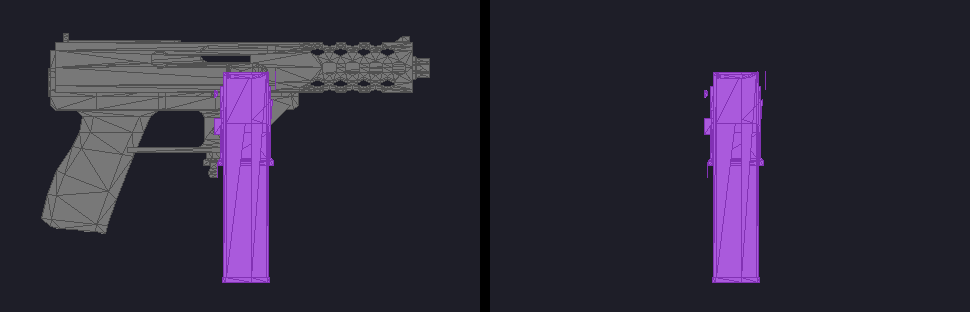
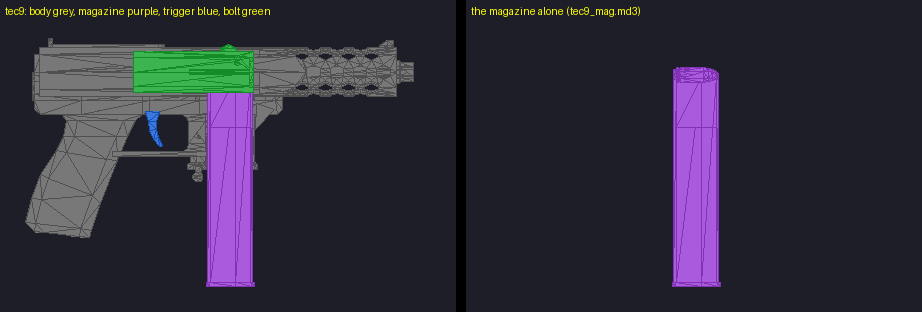
[plan] cards/meatgrinder/tec9: reloadable, detachable magazine; card from the parted mesh in the new format; the carve lesson recorded
Claude-Session: https://claude.ai/code/session_01Me4ZUptKzBoUU637hvKN4p

diff --git a/cards/meatgrinder/NOTES.md b/cards/meatgrinder/NOTES.md
@@ -9,7 +9,7 @@ where it goes, the hands do the reload. "The mesh says it doesn't reload" was a 
 |---|---|---|---|---|
 | SSG.md3 | a bullpup PUMP shotgun (KSG style), not a break-action | pump = forend+front grip (surf 5) and barrel sleeve (surf 1) slide back 10.8 cm together, frames 6..11 | none modelled | surfaces named by role: 0 trigger, 6 rear grip, 10 stock |
 | Shotgun.md3 | a MAGAZINE shotgun | box mag (surf 6, artist-named "Mag", never animated: 8.5 x 12.4 x 13.2 under the receiver); bolt (surf 2) 10.8 cm and charging handle (surf 1) 7.3 cm on fire | none modelled | artist surfaces are named: Sights, Trigger, Receiver, Frame, Mag |
-| tec9.md3 | open-bolt SMG | ALREADY DONE in RS_VR_Weapons (tec9_wm.md3 + wm_tec9_mag.md3, WMCARD.07_smg): mag carved, full card. Raw mesh adds: bolt 7.1 cm on fire frames 3..4 | yes, on the RS_VR_Weapons card (-y side) | the re-carve here was wasted; check RS_VR_Weapons first |
+| tec9.md3 | open-bolt SMG, RELOADABLE: detachable 32-round box magazine | magazine is its own surface (792 tris, proven to drop in game); bolt 7.1 cm on fire frames 3..4; the mod's own animation never reloads, the runtime does | -y side | parted mesh used; my own box carve was wrong twice (collar+base, then with receiver wall) |
 | Chaingun.md3 | six-barrel rotary | the six barrels (surf 5..10) ARE separate and spin 45 deg per fire frame | none modelled | side grip surf 14 for the support hand |
 | RPG.md3 | six-tube rocket pod on the chaingun body | tubes (surf 9,13..17) are still; whole gun recoils 45 deg on fire (removed in _stable) | n/a | |
 | Saw.md3 | chainsaw | blade (surf 3) is its own surface, static; surf 5 is a spark effect on fire | n/a | the chain can be made to run: the blade is separable |

diff --git a/cards/README.md b/cards/README.md
@@ -26,9 +26,10 @@ are inside the selector, and a magazine's side triangles run from the base plate
 so the slab must reach the receiver line, or you get the collar and the base plate and no magazine
 (TEC9, first try). Render the carved piece ALONE and look at it before trusting the triangle count.
 
-## FIRST, check what is already done (2026-10-31, the TEC9 lesson)
-The well (VR_WeaponSetRebuild) holds raw downloads. The finished, parted, carded copies live as `_wm`
-meshes in RS_VR_Weapons (`models/<set>/...`, cards in `WMCARD.*`) and on ModelSwapper's shelf. Before
-measuring or carving anything from the well, look there. The TEC9 was re-carved here for an hour while
-`tec9_wm.md3` + `wm_tec9_mag.md3` + a full card sat in RS_VR_Weapons. A `_wm` copy is usually frame 0
-only: the raw mesh's motion (bolt travel, pump stroke) is still worth measuring and adding to its card.
+## Carving: the cut must be the part's own triangles (2026-10-31, the TEC9)
+A spatial box or cylinder selects triangles by where their vertices sit, and a magazine welded into a
+body shares vertices with the receiver around its well. Two box cuts of the TEC9 were wrong: the first
+took the collar and base plate only, the second took the whole box plus 216 receiver-wall triangles.
+The good cut (792 tris, the magazine and nothing else) follows the mesh's own seams. Render the carved
+piece ALONE and count what came with it before it goes on a card. A parted mesh that already exists and
+is proven to drop in game beats a new carve.
